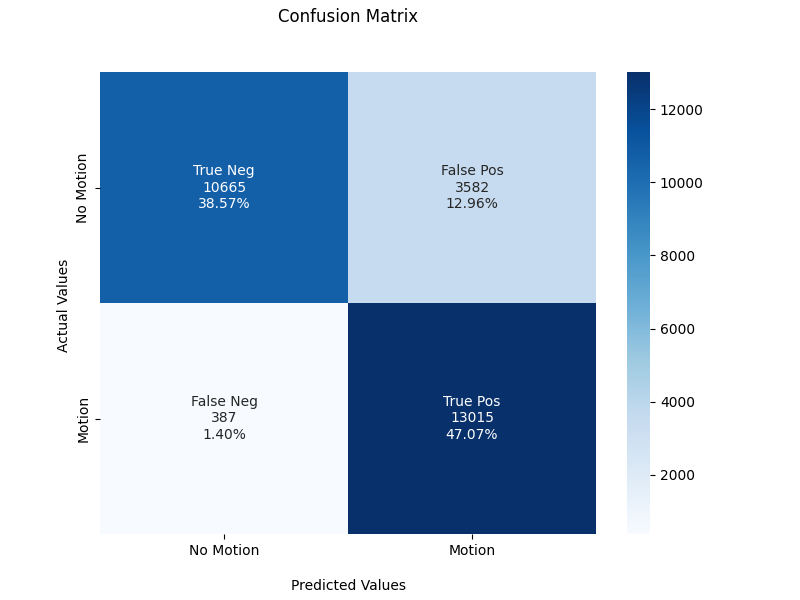
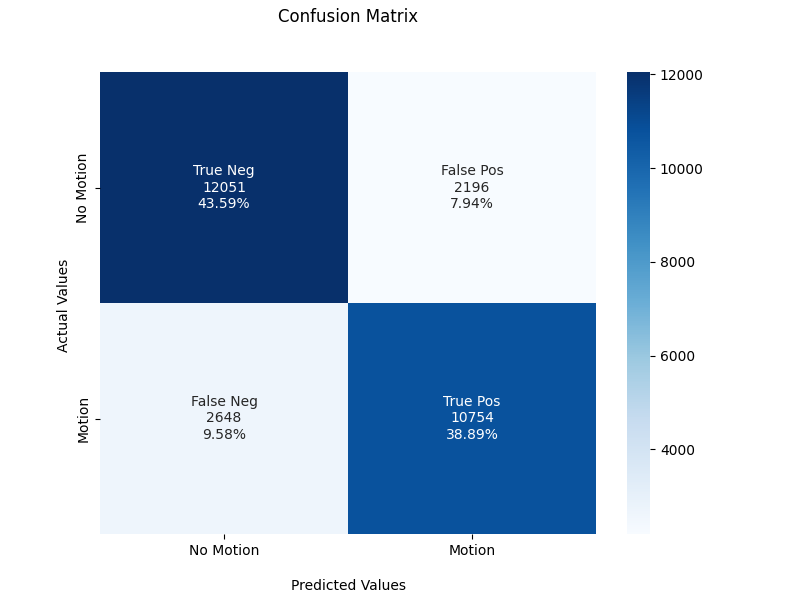
normalization + no time on data aqcuisition
Min Max normalization taking into account the max and min values on train data, so the test min max values might not be 0 and 1 respectively

diff --git a/Python/classification/utils/utils.py b/Python/classification/utils/utils.py
@@ -1,7 +1,8 @@
 import pandas as pd
 import numpy as np
 
-def load_data():
+
+def load_data(normalize=False):
     data_pd = pd.read_excel("data/Datasets_Group_B_v2.xlsx", "Classification")
     data_pd.dropna(inplace=True)
     total_size = len(data_pd)
@@ -10,11 +11,49 @@ def load_data():
     train_data = data_pd.iloc[:train_size]
     val_data = data_pd.iloc[train_size : train_size + val_size]
     test_data = data_pd.iloc[train_size + val_size :]
+    if normalize:
+        train_data.iloc[:, 5:-1], min_values, max_values = min_max_normalization_pandas(
+            train_data.iloc[:, 5:-1]
+        )
+        val_data.iloc[:, 5:-1] = min_max_normalization_pandas(
+            val_data.iloc[:, 5:-1], min_values, max_values
+        )
+        test_data.iloc[:, 5:-1] = min_max_normalization_pandas(
+            test_data.iloc[:, 5:-1], min_values, max_values
+        )
+
     return train_data, val_data, test_data
 
 
-def get_numpy_features(data):
-    return data.iloc[:, :-1].to_numpy(), data.iloc[:, -1].to_numpy()
+def min_max_normalization_pandas(dataframe, min_values=None, max_values=None):
+    if min_values is None or max_values is None:
+        min_values = dataframe.min(axis=0)
+        max_values = dataframe.max(axis=0)
+        normalized_dataframe = (dataframe - min_values) / (max_values - min_values)
+
+        return normalized_dataframe, min_values, max_values
+    
+    else:
+        normalized_dataframe = (dataframe - min_values) / (max_values - min_values)
+
+        return normalized_dataframe
+
+
+def get_numpy_features(data, no_time=True):
+    if no_time:
+        data, labels = data.iloc[:, 5:-1].to_numpy(), data.iloc[:, -1].to_numpy()
+    else:
+        data, labels = data.iloc[:, :-1].to_numpy(), data.iloc[:, -1].to_numpy()
+
+    return data, labels
+
+
+def min_max_normalization(data):
+    min_values = np.min(data, axis=0)
+    max_values = np.max(data, axis=0)
+    normalized_data = (data - min_values) / (max_values - min_values)
+
+    return normalized_data
 
 
 def moving_average(data, window_size=3):
@@ -29,23 +68,26 @@ def moving_average(data, window_size=3):
 
     return avgs
 
+
 def load_data_v2():
     data_pd = pd.read_excel("data/Datasets_Group_B_v2.xlsx", "Classification")
     # data_pd.fillna(method='ffill', inplace=True)
     data_pd.dropna(inplace=True)
     data_np = data_pd.to_numpy()
     total_size = data_np.shape[0]
-    num_positive = (data_np[:,-1] == 1).sum()
+    num_positive = (data_np[:, -1] == 1).sum()
     per_positive = num_positive / total_size
     print("Total size: ", total_size)
     print("Number of positive: ", num_positive)
     print("Percentage of positive: ", per_positive)
-    train_size = int(total_size*0.64)
-    val_size = int(total_size*0.16)
+    train_size = int(total_size * 0.64)
+    val_size = int(total_size * 0.16)
     train_data = data_np[0:train_size, :]
-    val_data = data_np[train_size:train_size+val_size, :]
-    test_data = data_np[train_size+val_size:, :]
-    return ((train_data[:, :-1], train_data[:, -1]), 
-            (val_data[:, :-1], val_data[:, -1]), 
-            (test_data[:, :-1], test_data[:, -1]))
+    val_data = data_np[train_size : train_size + val_size, :]
+    test_data = data_np[train_size + val_size :, :]
 
+    return (
+        (train_data[:, :-1], train_data[:, -1]),
+        (val_data[:, :-1], val_data[:, -1]),
+        (test_data[:, :-1], test_data[:, -1]),
+    )

diff --git a/Python/classification/examples/KNN/knn_optuna.py b/Python/classification/examples/KNN/knn_optuna.py
@@ -25,11 +25,11 @@ def objective(trial):
 
 
 if __name__ == "__main__":
-    train, _, test = utils.load_data()
+    train, _, test = utils.load_data(normalize=True)
     knn = models.kNN()
-    train_data, train_label = utils.get_numpy_features(train)
+    train_data, train_label = utils.get_numpy_features(train, no_time=True)
     knn.fit(train_data, train_label)
-    test_data, test_label = utils.get_numpy_features(test)
+    test_data, test_label = utils.get_numpy_features(test, no_time=True)
     # Change this path to the path you wish your database to be stored
     os.chdir("Python/classification/examples/")
     study = optuna.create_study(

diff --git a/Python/classification/examples/KNN/knn.py b/Python/classification/examples/KNN/knn.py
@@ -8,11 +8,11 @@ import evaluation
 
 
 if __name__ == "__main__":
-    train, _, test = utils.load_data()
+    train, _, test = utils.load_data(normalize=True)
     knn = models.kNN()
-    train_data, train_label = utils.get_numpy_features(train)
+    train_data, train_label = utils.get_numpy_features(train, no_time=True)
     knn.fit(train_data, train_label)
-    test_data, test_label = utils.get_numpy_features(test)
+    test_data, test_label = utils.get_numpy_features(test, no_time=True)
     print('starting')
     predicts = knn.predict(test_data, n_neighbours=1)
     cf_matrix = evaluation.confusion_matrix(test_label, predicts)
